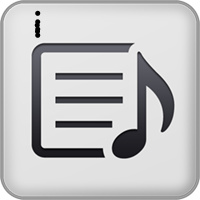
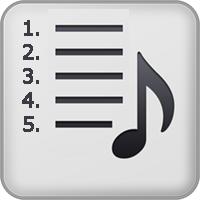
Added charts occurences on performer.

Changed region(s): [[0.09, 0.03, 0.69, 0.81], [0.27, 0.12, 0.63, 0.18], [0.27, 0.36, 0.63, 0.42]]

diff --git a/app/resources/www/stylesheet.css b/app/resources/www/stylesheet.css
@@ -202,6 +202,21 @@ table, th, td {
     font-weight: bold;
 }
 
+.SBItemMajorSplit {
+    width: 50%;
+    margin-top: 10px;
+	font-size: 125%;
+	font-weight: bold;
+}
+
+.SBItemMajorSplit:hover {
+    color: dodgerblue;
+}
+
+.SBItemMajorSplit:active {
+    font-weight: bold;
+}
+
 .SBItemMinor {
     margin-top: 0px;
 	font-weight: bold;

diff --git a/app/resources/www/performer_detail.html b/app/resources/www/performer_detail.html
@@ -3,7 +3,7 @@
 </HEAD>
 <BODY>
 <DIV id="SongDetail">
-	<TABLE colspan="3" class="SongDetailTable">
+	<TABLE colspan="5" class="SongDetailTable">
         <TBODY>
             ___SB_PERFORMERS___
             ___SB_SONGS___

diff --git a/app/SBHtmlPerformersAll.cpp b/app/SBHtmlPerformersAll.cpp
@@ -6,12 +6,16 @@
 #include "SBHtmlPerformersAll.h"
 #include "SBHtmlSongsAll.h"
 #include "SBIDAlbum.h"
+#include "SBIDChart.h"
+#include "SBIDChartPerformance.h"
 #include "SBIDPerformer.h"
 #include "SBIDSong.h"
 #include "SBIDSongPerformance.h"
 #include "SBSqlQueryModel.h"
+#include "SBTableModel.h"
 
 static const QString albums=QString("___SB_ALBUMS___");
+static const QString charts=QString("___SB_CHARTS___");
 static const QString performers=QString("___SB_PERFORMERS___");
 static const QString songs=QString("___SB_SONGS___");
 
@@ -43,7 +47,7 @@ SBHtmlPerformersAll::performerDetail(QString html, const QString& key)
             if(relatedPerformers.count())
             {
                 QVectorIterator<SBIDPerformerPtr> pIT(relatedPerformers);
-                table=QString("<TR><TD colspan=\"3\"><P class=\"SBItemSection\">Related Performers:</P></TD></TR>");
+                table=QString("<TR><TD colspan=\"5\"><P class=\"SBItemSection\">Related Performers:</P></TD></TR>");
                 while(pIT.hasNext())
                 {
                     SBIDPerformerPtr rpPtr=pIT.next();
@@ -58,7 +62,7 @@ SBHtmlPerformersAll::performerDetail(QString html, const QString& key)
                                 "<TD class=\"SBIconCell\" >"
                                     "<img class=\"SBIcon\" src=\"%1\"></img>"
                                 "</TD>"
-                                "<TD class=\"SBItemMajor\"  onclick=\"open_page('%3','%2');\">%2</TD>"
+                                "<TD class=\"SBItemMajor\"  colspan=\"3\" onclick=\"open_page('%3','%2');\">%2</TD>"
                                 "<TD class=\"playercontrol_button\" >"
                                     "%4"
                                 "</TD>"
@@ -83,7 +87,7 @@ SBHtmlPerformersAll::performerDetail(QString html, const QString& key)
             {
                 QVector<SBKey> processedSong;
 
-                table=QString("<TR><TD colspan=\"3\"><P class=\"SBItemSection\">Songs:</P></TD></TR>");
+                table=QString("<TR><TD colspan=\"5\"><P class=\"SBItemSection\">Songs:</P></TD></TR>");
                 QVectorIterator<SBIDSongPerformancePtr> spIT(songPerformances);
                 while(spIT.hasNext())
                 {
@@ -114,7 +118,7 @@ SBHtmlPerformersAll::performerDetail(QString html, const QString& key)
                                     "<TD class=\"SBIconCell\" >"
                                         "<img class=\"SBIcon\" src=\"%1\"></img>"
                                     "</TD>"
-                                    "<TD class=\"SBItemMajor\"  onclick=\"open_page('%3','%2');\">%2</TD>"
+                                    "<TD class=\"SBItemMajor\" colspan=\"3\" onclick=\"open_page('%3','%2');\">%2</TD>"
                                     "<TD class=\"playercontrol_button\" >"
                                         "%4"
                                     "</TD>"
@@ -139,7 +143,7 @@ SBHtmlPerformersAll::performerDetail(QString html, const QString& key)
 
             if(allAlbums.count())
             {
-                table=QString("<TR><TD colspan=\"3\"><P class=\"SBItemSection\">Albums:</P></TD></TR>")+table;
+                table=QString("<TR><TD colspan=\"5\"><P class=\"SBItemSection\">Albums:</P></TD></TR>")+table;
 
                 QVectorIterator<SBIDAlbumPtr> apIT(allAlbums);
                 while(apIT.hasNext())
@@ -156,7 +160,7 @@ SBHtmlPerformersAll::performerDetail(QString html, const QString& key)
                                 "<TD class=\"SBIconCell\" >"
                                     "<img class=\"SBIcon\" src=\"%1\"></img>"
                                 "</TD>"
-                                "<TD class=\"SBItemMajor\"  onclick=\"open_page('%4','%2');\">%2</TD>"
+                                "<TD class=\"SBItemMajor\" colspan=\"3\" onclick=\"open_page('%4','%2');\">%2</TD>"
                                 "<TD class=\"playercontrol_button\" >"
                                     "%3"
                                 "</TD>"
@@ -167,33 +171,77 @@ SBHtmlPerformersAll::performerDetail(QString html, const QString& key)
                             .arg(playerControlHTML)
                             .arg(aPtr->key().toString())
                         ;
-                        qDebug() << SB_DEBUG_INFO << row;
                         table+=row;
                     }
                 }
             }
             html.replace(albums,table);
 
-            // //  Charts
-            // QMap<SBIDChartPerformancePtr, SBIDChartPtr> allCharts=pPtr->charts(SBIDSong::retrieve_qmap());
-            // table=QString();
-            // if(allCharts.count())
-            // {
-            //     table=QString("<TR><TD colspan=\"3\" class=\"SBItemSection\">Charts:</TD></TR>");
-            //     table+=QString("<TR><TD colspan=\"3\" class=\"SBItemMinor\">");
-            //     QMapIterator<SBIDChartPerformancePtr, SBIDChartPtr> it(allCharts);
-            //     while(it.hasNext())
-            //     {
-            //         it.next();
-            //         SBIDChartPtr cPtr=it.value();
-            //         if(cPtr)
-            //         {
-            //             table+=QString("<LI><A class=\"SBItemMinor\">%1</A></LI>").arg(cPtr->chartName());
-            //         }
-            //     }
-            //     table+=QString("</TD></TR>");
-            // }
-            // html.replace(charts,table);
+            //  Charts
+            SBTableModel* allCharts=pPtr->charts();
+            table=QString();
+
+            if(allCharts->rowCount())
+            {
+                table=QString("<TR><TD colspan=\"5\" class=\"SBItemSection\">Charts:</TD></TR>");
+
+                for(qsizetype i=0; i<allCharts->rowCount();i++)
+                {
+                    SBKey songKey=SBKey(allCharts->item(i,0)->data(Qt::DisplayRole).toString().toLatin1());
+                    SBKey chartKey=SBKey(allCharts->item(i,2)->data(Qt::DisplayRole).toString().toLatin1());
+                    int chartPosition=allCharts->item(i,4)->data(Qt::DisplayRole).toString().toInt();
+
+                    qDebug() << SB_DEBUG_INFO << songKey << chartKey << chartPosition;
+
+                    SBIDSongPtr sPtr=SBIDSong::retrieveSong(songKey);
+                    SBIDChartPtr cPtr=SBIDChart::retrieveChart(chartKey);
+
+                    if(sPtr && cPtr)
+                    {
+                        QString iconLocation;
+
+                        SBIDSongPerformancePtr spPtr=sPtr->originalSongPerformancePtr();
+                        if(spPtr)
+                        {
+                            SBIDOnlinePerformancePtr opPtr=spPtr->preferredOnlinePerformancePtr();
+                            iconLocation=SBHtmlSongsAll::_getIconLocation(opPtr,SBKey::ChartPerformance);
+                        }
+                        if(!iconLocation.size())
+                        {
+                            iconLocation=ExternalData::getDefaultIconPath(SBKey::ChartPerformance);
+                        }
+
+                        QString  playerControlHTML=QString("<P class=\"item_play_button\" onclick=\"control_player('play','%1');\"><BUTTON type=\"button\">&gt;</BUTTON></P>")
+                                                        .arg(cPtr->key().toString());
+                            ;
+                        QString row=QString(
+                            "<TR>"
+                                "<TD class=\"SBIconCell\" >"
+                                    "<img class=\"SBIcon\" src=\"%1\"></img>"
+                                "</TD>"
+                                "<TD class=\"SBIconCell\" >"
+                                    "%5"
+                                "</TD>"
+                                "<TD class=\"SBItemMajorSplit\" onclick=\"open_page('%7','%6');\">%6</TD>"
+                                "<TD class=\"SBItemMajorSplit\" onclick=\"open_page('%4','%2');\">%2</TD>"
+                                "<TD class=\"playercontrol_button\" >"
+                                    "%3"
+                                "</TD>"
+                            "</TR>"
+                        )
+                            .arg(iconLocation)
+                            .arg(Common::escapeQuotesHTML(cPtr->chartName()))
+                            .arg(playerControlHTML)
+                            .arg(cPtr->key().toString())
+                            .arg(chartPosition)
+                            .arg(Common::escapeQuotesHTML(sPtr->songTitle()))
+                            .arg(sPtr->key().toString())
+                        ;
+                        table+=row;
+                    }
+                }
+            }
+            html.replace(charts,table);
         }
     }
     return html;

diff --git a/app/SBIDChartPerformance.cpp b/app/SBIDChartPerformance.cpp
@@ -90,7 +90,14 @@ SBIDChartPerformance::songPtr() const
     CacheManager* cm=Context::instance()->cacheManager();
     CacheSongMgr* sMgr=cm->songMgr();
     return sMgr->retrieve(SBIDSong::createKey(this->songID()));
+}
 
+SBIDChartPtr
+    SBIDChartPerformance::chartPtr() const
+{
+    CacheManager* cm=Context::instance()->cacheManager();
+    CacheChartMgr* cMgr=cm->chartMgr();
+    return cMgr->retrieve(SBIDChart::createKey(this->chartID()));
 }
 
 ///	Redirectors

diff --git a/app/SBIDChartPerformance.h b/app/SBIDChartPerformance.h
@@ -28,10 +28,12 @@ public:
     //	Pointers
     SBIDSongPerformancePtr songPerformancePtr() const;
     SBIDSongPtr songPtr() const;
+    SBIDChartPtr chartPtr() const;
 
     //	Redirectors
     int songPerformerID() const;
     int songID() const;
+    inline int chartID() const { return _chartID; } ;
     QString songPerformerName() const;
     QString songTitle() const;
 
